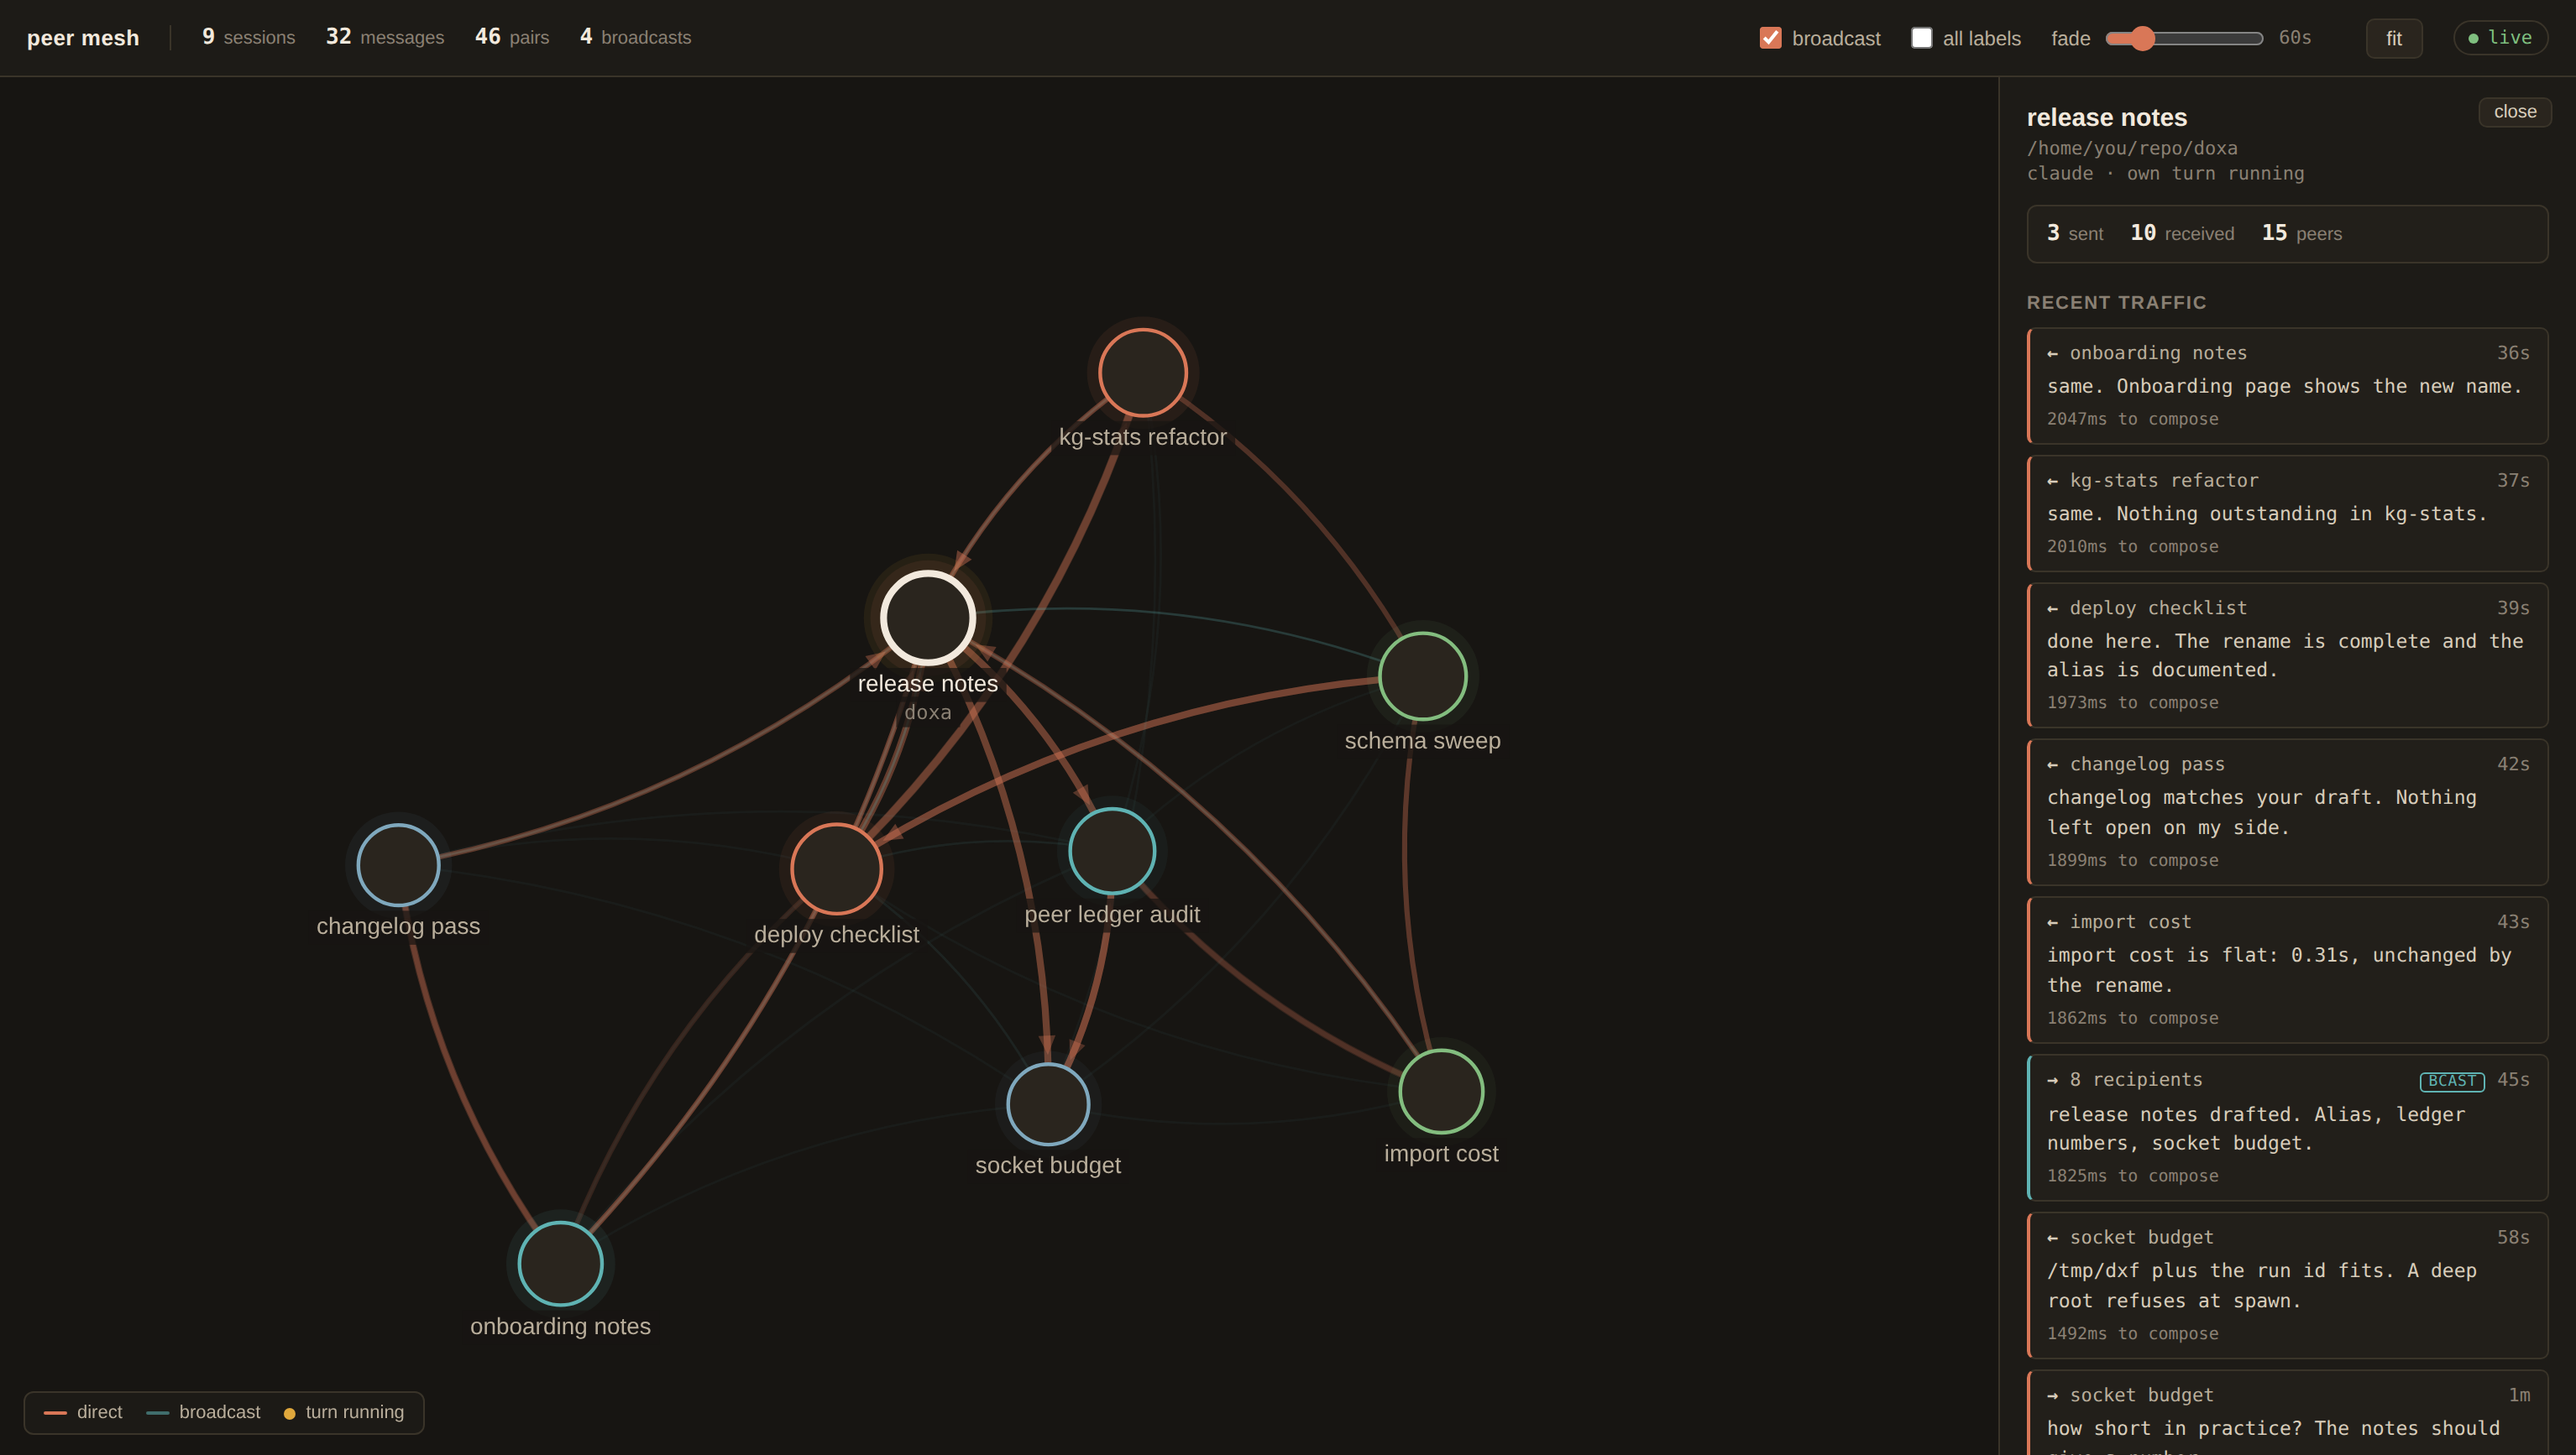
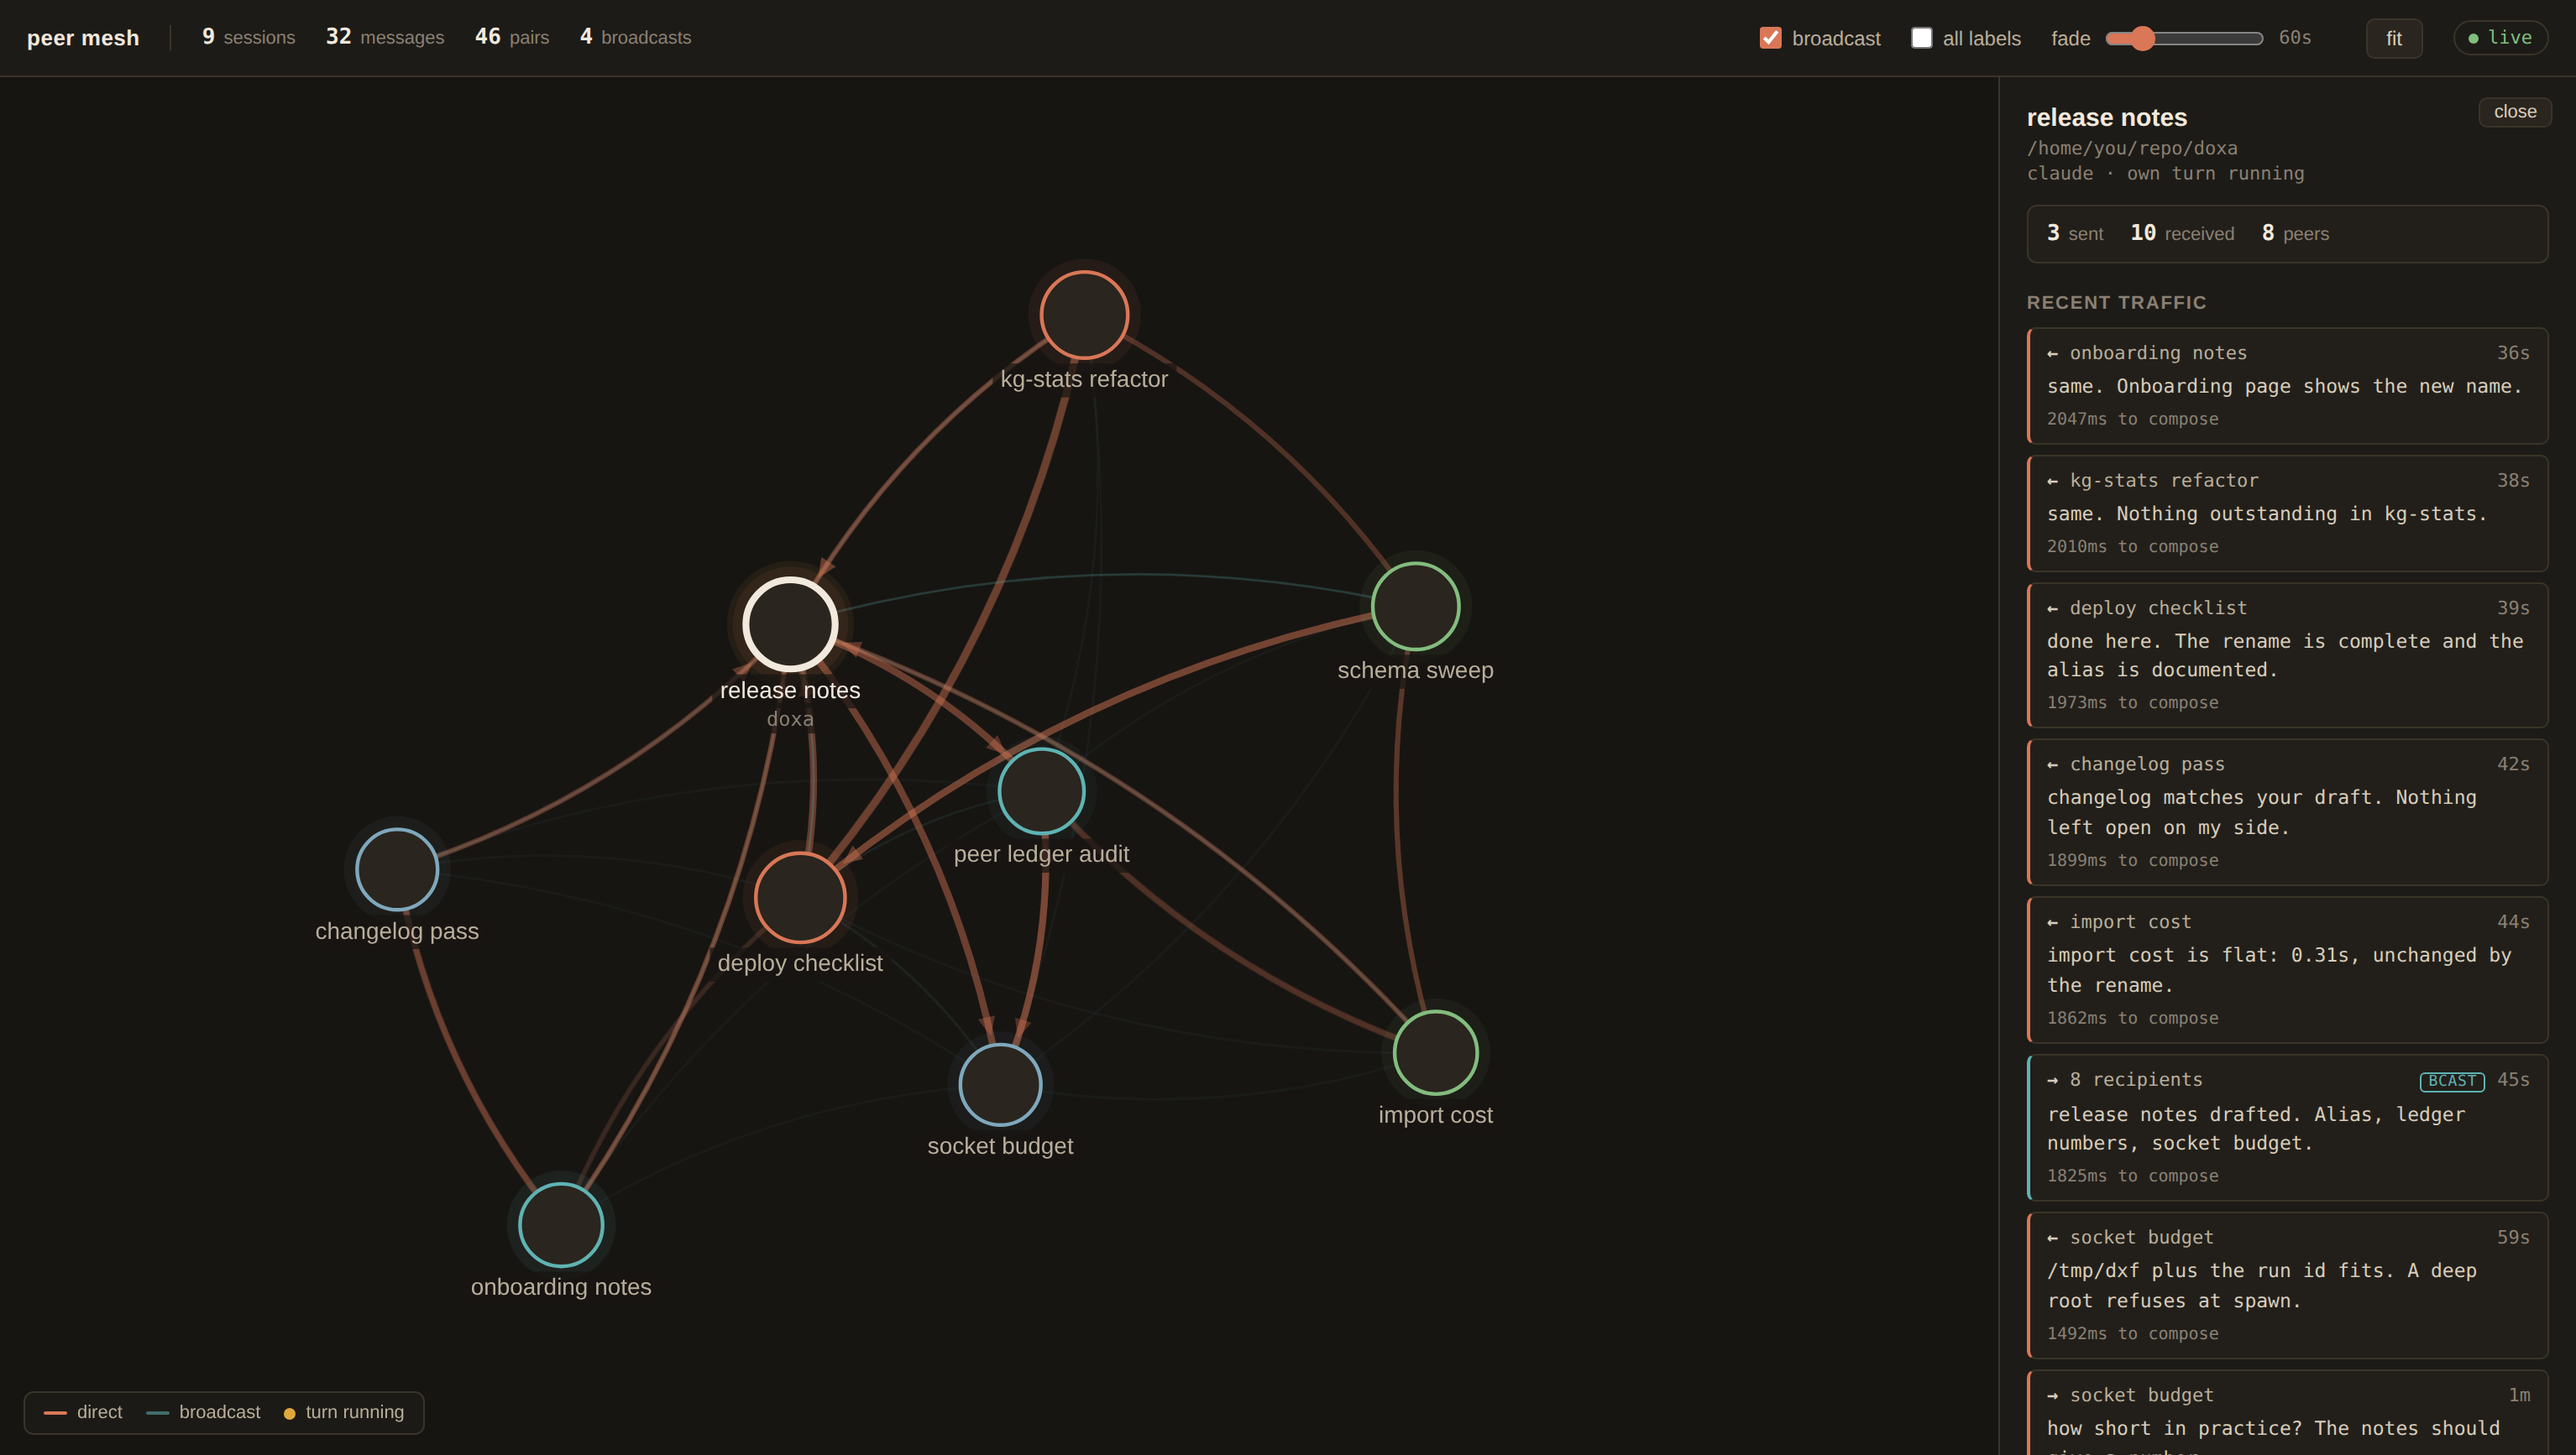
fix(mesh): count distinct peers instead of directed pairs (#69)
renderPanel counted entries in a directionally-keyed map, so a session that both sent to and received from the same peer counted twice: a nine-session graph read 15 peers where 8 is the maximum. It now collects distinct endpoints. The header's pairs counter is left alone, correctly: it describes edges, not peers. mesh.png re-rendered with the corrected figure and the README alt text now quotes it. Tested by running the shipped counting block in Node against a pair map built from the real edge function, skipped when Node is absent. Closes #60. Suite 2666.

diff --git a/assets/mesh/mesh.js b/assets/mesh/mesh.js
@@ -762,10 +762,21 @@ function renderPanel() {
     .filter(Boolean).join("  ·  ");
   el.selMeta.textContent = meta || node.id;
 
-  let peers = 0;
+  // Distinct endpoints, not pair-map entries. `pairs` is keyed
+  // directionally (see the comment on the map's declaration above), so a
+  // session that both sent to and received from the same peer holds TWO
+  // entries here -- (selected, other) and (other, selected) -- and
+  // counting entries counted that peer twice. A session is never its own
+  // peer: no self-edge reaches this data today (doxa/meshgraph.py's
+  // edges_for drops self-delivery before a record is ever served), but
+  // the `!== selected` guards keep that true even if that upstream
+  // contract ever changes, rather than trusting it silently.
+  const peerIds = new Set();
   for (const pair of pairs.values()) {
-    if (pair.from === selected || pair.to === selected) peers++;
+    if (pair.from === selected && pair.to !== selected) peerIds.add(pair.to);
+    else if (pair.to === selected && pair.from !== selected) peerIds.add(pair.from);
   }
+  const peers = peerIds.size;
   el.selOut.textContent = String(node.out);
   el.selIn.textContent = String(node.in);
   el.selPeers.textContent = String(peers);

diff --git a/tests/test_screenshot_driver.py b/tests/test_screenshot_driver.py
@@ -34,7 +34,10 @@ surface it showed had been removed and its scene deleted with it.
 from __future__ import annotations
 
 import json
+import re
+import shutil
 import struct
+import subprocess
 from pathlib import Path
 
 import pytest
@@ -157,6 +160,7 @@ async def test_activate_leaves_the_window_idle(tmp_path):
 # =======================================================================
 
 SHOTS = Path(screenshot.ROOT) / "assets" / "shots"
+MESH_JS = Path(screenshot.ROOT) / "assets" / "mesh" / "mesh.js"
 
 
 def _png_size(path: Path) -> "tuple[int, int]":
@@ -413,3 +417,101 @@ def test_the_mesh_graph_has_an_edge_that_crosses_vendors():
             if pair[0] != pair[1]:
                 crossings.add(pair)
     assert len(crossings) >= 4, crossings
+
+
+def _run_render_panel_peer_block(pairs: "list[tuple[str, str]]", selected: str) -> int:
+    """`renderPanel`'s own peer-counting statements, run unmodified, over
+    a `pairs` map built the way `ingest()` builds it.
+
+    ``assets/mesh/mesh.js`` has no test harness of its own: the repo
+    commits no ``package.json`` and nothing else executes it as
+    JavaScript, on purpose -- the file's own header explains why it
+    carries no dependency and no build step, and that is worth keeping
+    true for the file itself. But reimplementing the peer-counting
+    algorithm in Python would pin what THIS TEST believes the algorithm
+    does, not what ``renderPanel`` actually computes -- and issue #60 is
+    exactly a case where those two quietly diverged (``sent``/``received``
+    were right; ``peers`` was not, and nothing caught it).
+
+    So the real statements are extracted from the real file between two
+    anchor lines that bound the block and have nothing to do with peer
+    counting (``el.selMeta.textContent = meta || node.id;`` before it,
+    ``el.selOut.textContent = String(node.out);`` after), and run in
+    Node -- present on every machine this repo already assumes can drive
+    a headless Chrome (``scripts/mesh_shot.py``), and on GitHub's own
+    runners. Nothing here touches a DOM: ``pairs`` and ``selected`` are
+    the whole of what the extracted block reads, and it leaves a
+    ``peers`` binding behind for this harness to print, exactly as
+    ``renderPanel`` leaves one for the line after it to render."""
+    if shutil.which("node") is None:
+        pytest.skip("node is not on PATH")
+
+    source = MESH_JS.read_text(encoding="utf-8")
+    match = re.search(
+        r"el\.selMeta\.textContent = meta \|\| node\.id;\n"
+        r"(?P<block>.*?)\n\s*"
+        r"el\.selOut\.textContent = String\(node\.out\);",
+        source,
+        re.S,
+    )
+    assert match, (
+        "renderPanel no longer has the anchor lines this test extracts "
+        "the peer-counting block between -- update the anchors above"
+    )
+
+    values = json.dumps([{"from": frm, "to": to} for frm, to in pairs])
+    script = (
+        f"const values = {values};\n"
+        "const pairs = new Map(values.map((v, i) => [i, v]));\n"
+        f"const selected = {json.dumps(selected)};\n"
+        f"{match.group('block')}\n"
+        "process.stdout.write(String(peers));\n"
+    )
+    result = subprocess.run(
+        ["node", "-e", script], capture_output=True, text=True, timeout=10
+    )
+    assert result.returncode == 0, result.stderr
+    return int(result.stdout.strip())
+
+
+def test_the_mesh_panel_reports_distinct_peers_not_directed_pairs():
+    """Issue #60, pinned on the exact ledger `scripts/mesh_shot.py` writes
+    for the committed `assets/shots/mesh.png`.
+
+    `pairs` is keyed directionally (`doxa.meshgraph.edges_for`, folded
+    into `pairs` by `ingest()` the same way for the real page): 'release
+    notes' broadcasts to the other eight sessions at least once, so it
+    has 8 pairs with itself as `from`; seven of the other eight sessions
+    also address it directly or by their own broadcast (every sender
+    except 'schema sweep', which never sends to it), for 7 more pairs
+    with itself as `to`. Counting pair-map ENTRIES touching the session,
+    the way the panel used to, reads 8 + 7 = 15 -- the exact wrong number
+    the issue measured. The true count is distinct endpoints: the same 8
+    sessions appear on both sides, so the honest maximum for a
+    nine-session ledger is 8, one shy of every other session in it."""
+    from doxa import meshgraph as meshgraph_mod
+
+    pairs: "set[tuple[str, str]]" = set()
+    for _ago, sender, targets, _body in mesh_shot._TRAFFIC:
+        session = mesh_shot._SESSIONS[sender][0]
+        recipients = (
+            [s[0] for i, s in enumerate(mesh_shot._SESSIONS) if i != sender]
+            if targets is None
+            else [mesh_shot._SESSIONS[i][0] for i in targets]
+        )
+        kind = "broadcast" if targets is None else "direct"
+        for edge in meshgraph_mod.edges_for(session, recipients, kind):
+            pairs.add((edge["from"], edge["to"]))
+
+    selected = next(
+        s[0] for s in mesh_shot._SESSIONS if s[1] == mesh_shot._SELECT
+    )
+    directed_hits = sum(1 for frm, to in pairs if frm == selected or to == selected)
+    assert directed_hits == 15, (
+        f"the fixture ledger's directed-pair count touching "
+        f"{mesh_shot._SELECT!r} changed ({directed_hits}, not 15) -- "
+        "update this number, README.md's alt text and the issue "
+        "reference together"
+    )
+
+    assert _run_render_panel_peer_block(sorted(pairs), selected) == 8

diff --git a/README.md b/README.md
@@ -177,7 +177,7 @@ binding yours cannot send.
 
 *`/fleet start` spawns N sessions on one prompt at one instant and opens this tab: which shape the run is, what it was allowed to be, who was dealt what and in which role, how far apart the prompts landed, when it went quiet, what the agents said to each other, and whether teardown left anything running. This one is a symmetric run and says so; a `--supervisor` run names the slot holding the prompt on the same line. The tab reads the run's manifest and its ledger and never the run itself — so it still says all of that once the run's task has gone, and closing it ends the run unless you typed `/fleet detach`.*
 
-![The peer mesh in a browser under '9 sessions 32 messages 46 pairs 4 broadcasts': nine session nodes rimmed by engine colour, 'release notes' selected in white, and a side panel reading '/home/you/repo/doxa', 'claude · own turn running', '3 sent 10 received' above a feed of message bodies, one tagged BCAST to 8 recipients](assets/shots/mesh.png)
+![The peer mesh in a browser under '9 sessions 32 messages 46 pairs 4 broadcasts': nine session nodes rimmed by engine colour, 'release notes' selected in white, and a side panel reading '/home/you/repo/doxa', 'claude · own turn running', '3 sent 10 received 8 peers' above a feed of message bodies, one tagged BCAST to 8 recipients](assets/shots/mesh.png)
 
 *`/mesh` serves the peer ledger as a graph on loopback, gated by a token in the URL and off until you ask for it. An edge is a delivery that happened and its thickness is how many; a broadcast is drawn as one fan rather than as N sessions each deciding to speak, because the ledger records that difference rather than inferring it. Click a session and its own recent traffic opens beside the graph, bodies included. A graph is the one thing a terminal cannot draw honestly, so this view is a browser page — and the only asset here with no SVG twin.*
 
